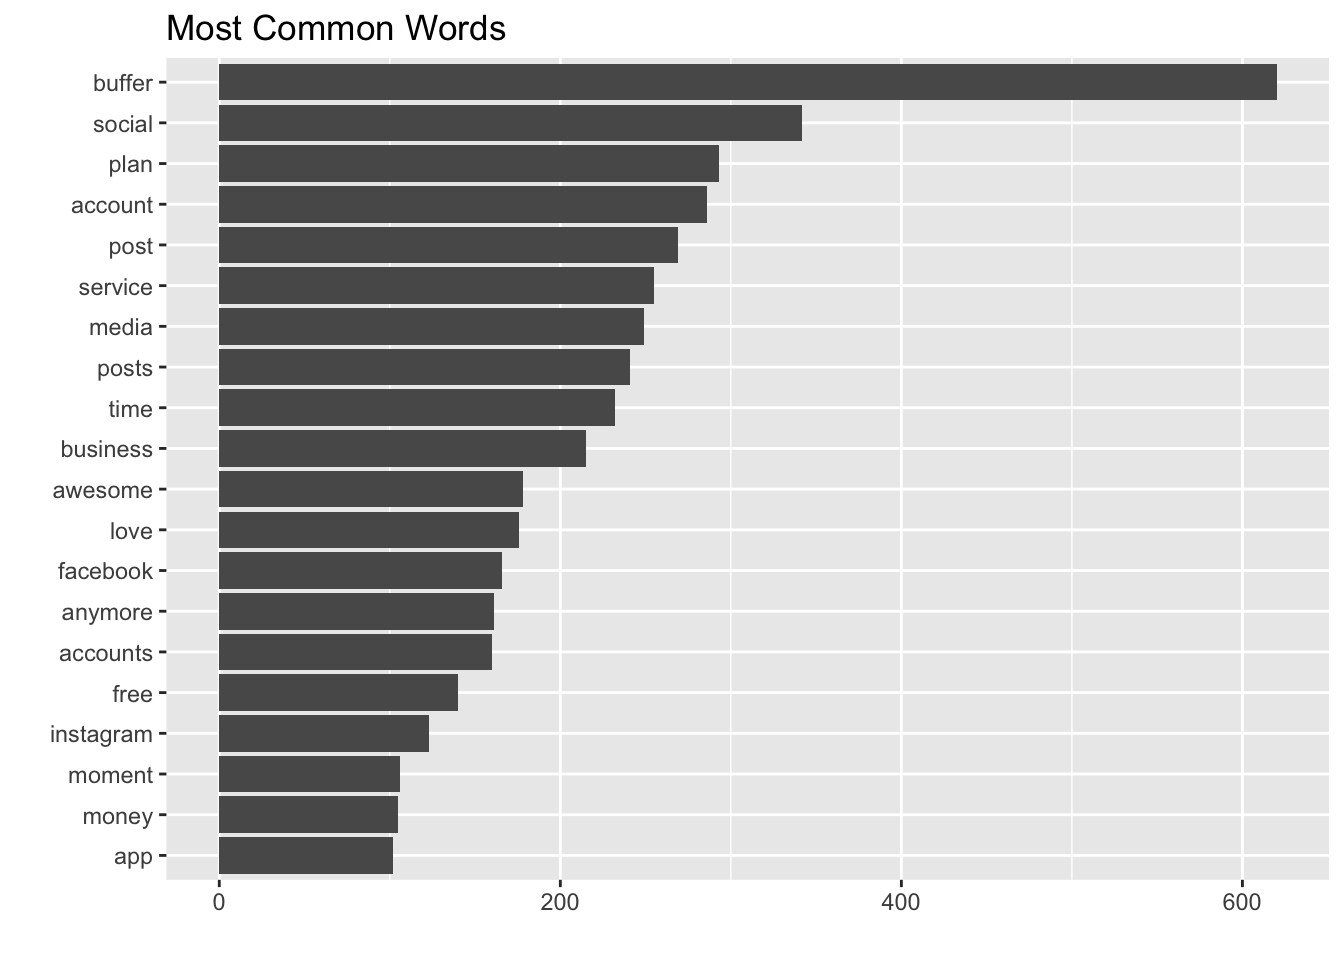
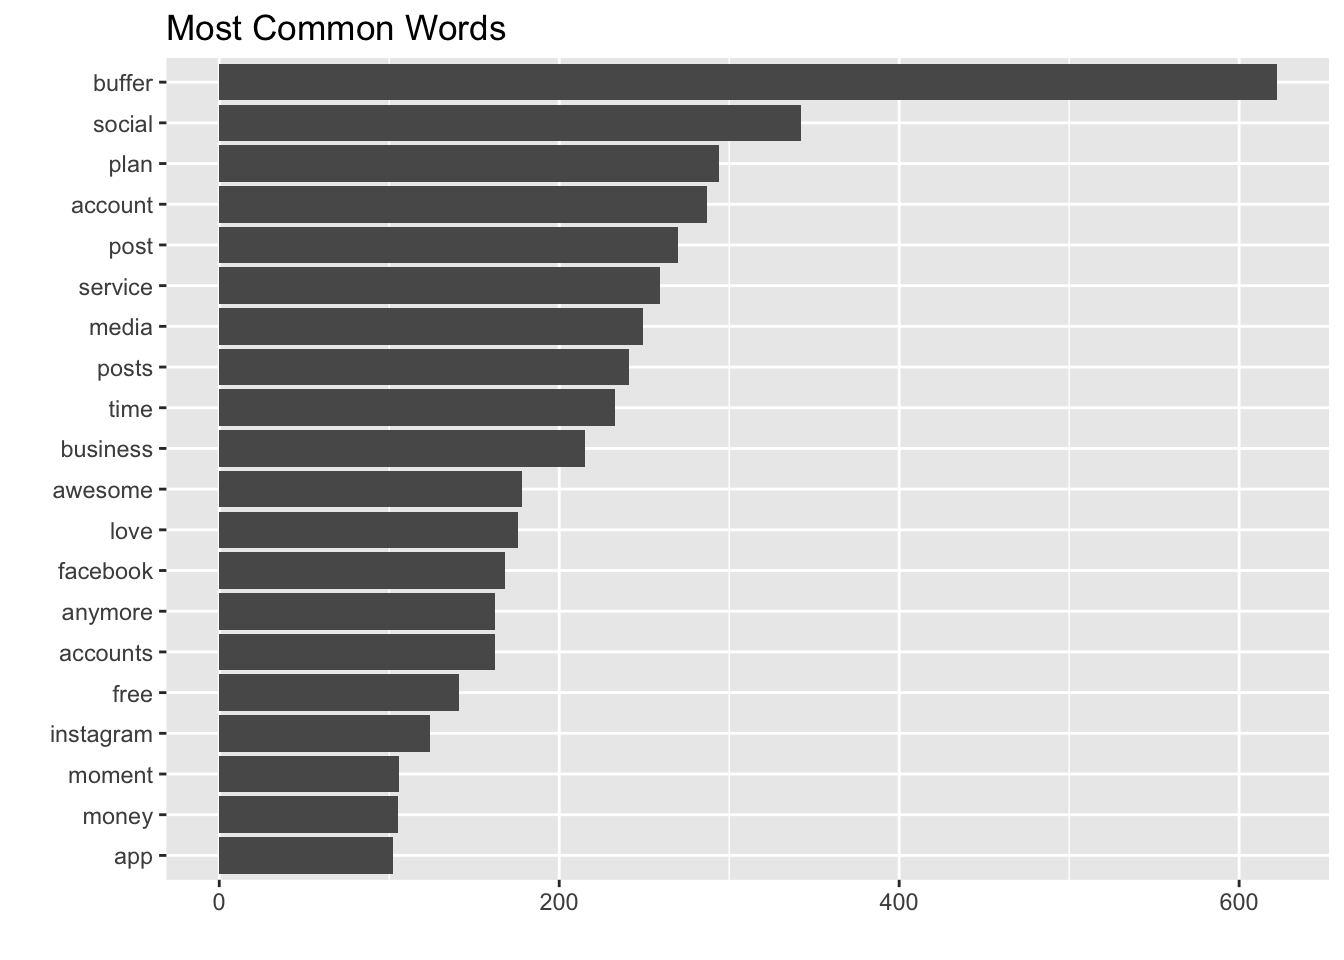
Added topic modeling section

diff --git a/blog/churn-survey-text-analysis/index.html b/blog/churn-survey-text-analysis/index.html
@@ -290,12 +290,12 @@ head(segment_words)</code></pre>
 <pre><code>## # A tibble: 6 x 4
 ##                       type    word     n total
 ##                     &lt;fctr&gt;   &lt;chr&gt; &lt;int&gt; &lt;int&gt;
-## 1 awesome_downgrade_survey  buffer   440 11297
-## 2 awesome_downgrade_survey  social   259 11297
-## 3 awesome_downgrade_survey    plan   234 11297
-## 4 awesome_downgrade_survey   media   192 11297
-## 5 awesome_downgrade_survey service   192 11297
-## 6 awesome_downgrade_survey    time   184 11297</code></pre>
+## 1 awesome_downgrade_survey  buffer   442 11362
+## 2 awesome_downgrade_survey  social   259 11362
+## 3 awesome_downgrade_survey    plan   235 11362
+## 4 awesome_downgrade_survey service   196 11362
+## 5 awesome_downgrade_survey   media   192 11362
+## 6 awesome_downgrade_survey    time   185 11362</code></pre>
 <p>There is one row in this data frame for each word-segment combination. <code>n</code> is the number of times that word is used for that segment and total is the total number of words in the segment’s comments. ## The <code>bind_tf_idf</code> function The idea of tf-idf is to find the important words for the content of each collection of comments by decreasing the weight for commonly used words and increasing the weight for words that are not used very much in an entire collection of documents, in this case all NPS comments.</p>
 <blockquote>
 <p>Calculating tf-idf attempts to find the words that are important (i.e., common) in a text, but not too common.</p>
@@ -306,40 +306,40 @@ segment_words &lt;- segment_words %&gt;%
   bind_tf_idf(word, type, n)
 
 segment_words</code></pre>
-<pre><code>## # A tibble: 4,717 x 7
+<pre><code>## # A tibble: 4,735 x 7
 ##                        type     word     n total         tf       idf
 ##                      &lt;fctr&gt;    &lt;chr&gt; &lt;int&gt; &lt;int&gt;      &lt;dbl&gt;     &lt;dbl&gt;
-##  1 awesome_downgrade_survey   buffer   440 11297 0.03894839 0.2231436
-##  2 awesome_downgrade_survey   social   259 11297 0.02292644 0.2231436
-##  3 awesome_downgrade_survey     plan   234 11297 0.02071346 0.2231436
-##  4 awesome_downgrade_survey    media   192 11297 0.01699566 0.2231436
-##  5 awesome_downgrade_survey  service   192 11297 0.01699566 0.2231436
-##  6 awesome_downgrade_survey     time   184 11297 0.01628751 0.2231436
-##  7 awesome_downgrade_survey    posts   180 11297 0.01593343 0.2231436
-##  8 awesome_downgrade_survey     post   177 11297 0.01566788 0.2231436
-##  9              exit_survey  account   163  3747 0.04350147 0.2231436
-## 10 awesome_downgrade_survey business   146 11297 0.01292379 0.2231436
-## # ... with 4,707 more rows, and 1 more variables: tf_idf &lt;dbl&gt;</code></pre>
+##  1 awesome_downgrade_survey   buffer   442 11362 0.03890160 0.2231436
+##  2 awesome_downgrade_survey   social   259 11362 0.02279528 0.2231436
+##  3 awesome_downgrade_survey     plan   235 11362 0.02068298 0.2231436
+##  4 awesome_downgrade_survey  service   196 11362 0.01725048 0.2231436
+##  5 awesome_downgrade_survey    media   192 11362 0.01689843 0.2231436
+##  6 awesome_downgrade_survey     time   185 11362 0.01628234 0.2231436
+##  7 awesome_downgrade_survey    posts   180 11362 0.01584228 0.2231436
+##  8 awesome_downgrade_survey     post   178 11362 0.01566626 0.2231436
+##  9              exit_survey  account   163  3762 0.04332802 0.2231436
+## 10 awesome_downgrade_survey business   146 11362 0.01284985 0.2231436
+## # ... with 4,725 more rows, and 1 more variables: tf_idf &lt;dbl&gt;</code></pre>
 <p>The <code>idf</code> and <code>tf_idf</code> will be 0 for extremely common words like “the” and “a”. We’ve already removed these stop words from our dataset.</p>
 <p>Let’s look at words with high <code>tf_idf</code> values.</p>
 <pre class="r"><code># Look at high tf_idf value words
 segment_words %&gt;%
   select(-total) %&gt;%
   arrange(desc(tf_idf))</code></pre>
-<pre><code>## # A tibble: 4,717 x 6
+<pre><code>## # A tibble: 4,735 x 6
 ##                                 type       word     n          tf
 ##                               &lt;fctr&gt;      &lt;chr&gt; &lt;int&gt;       &lt;dbl&gt;
-##  1 business_downgrade_awesome_survey       plan    26 0.048417132
-##  2                       exit_survey    account   163 0.043501468
-##  3                       exit_survey       page    37 0.009874566
-##  4                       exit_survey  instagram    66 0.017614091
-##  5          awesome_downgrade_survey     buffer   440 0.038948393
-##  6 business_downgrade_awesome_survey   business    20 0.037243948
+##  1 business_downgrade_awesome_survey       plan    26 0.048327138
+##  2                       exit_survey    account   163 0.043328017
+##  3                       exit_survey       page    38 0.010101010
+##  4                       exit_survey  instagram    66 0.017543860
+##  5          awesome_downgrade_survey     buffer   442 0.038901602
+##  6 business_downgrade_awesome_survey   business    20 0.037174721
 ##  7             business_churn_survey     buffer    48 0.034557235
-##  8                       exit_survey     buffer   120 0.032025620
-##  9 business_downgrade_awesome_survey comparison     2 0.003724395
-## 10 business_downgrade_awesome_survey       jump     2 0.003724395
-## # ... with 4,707 more rows, and 2 more variables: idf &lt;dbl&gt;, tf_idf &lt;dbl&gt;</code></pre>
+##  8                       exit_survey     buffer   120 0.031897927
+##  9 business_downgrade_awesome_survey comparison     2 0.003717472
+## 10 business_downgrade_awesome_survey       jump     2 0.003717472
+## # ... with 4,725 more rows, and 2 more variables: idf &lt;dbl&gt;, tf_idf &lt;dbl&gt;</code></pre>
 <p>Now let’s visualize these high <code>tf_idf</code> words for each segment of responders.</p>
 <p><img src="/blog/churn-survey-text-analysis_files/figure-html/unnamed-chunk-12-1.png" width="672" /></p>
 <p>The words that appear in these graphs appear more frequently in the specific survey type than they do in the other surveys. I think we can ignore “buffer”. The word “plan” seems to appear often in each survey <em>except</em> the exit survey as well.</p>
@@ -363,20 +363,20 @@ head(bigrams$bigram)</code></pre>
 <pre class="r"><code># Count the most common bigrams
 bigrams %&gt;%
   count(bigram, sort = TRUE)</code></pre>
-<pre><code>## # A tibble: 21,784 x 2
+<pre><code>## # A tibble: 21,867 x 2
 ##          bigram     n
 ##           &lt;chr&gt; &lt;int&gt;
 ##  1 social media   243
 ##  2    not using   241
 ##  3     using it   212
-##  4      i don&#39;t   209
+##  4      i don&#39;t   211
 ##  5         i am   195
-##  6    no longer   172
+##  6    no longer   174
 ##  7       use it   163
-##  8   don&#39;t need   154
-##  9       i have   153
+##  8   don&#39;t need   155
+##  9       i have   154
 ## 10      need to   149
-## # ... with 21,774 more rows</code></pre>
+## # ... with 21,857 more rows</code></pre>
 <p>As we might expect, a lot of the most common bigrams are groups of common words. This is a useful time to use tidyr’s <code>separate()</code>, which splits a column into multiple based on a delimiter. This lets us separate it into two columns, “word1” and “word2”, at which point we can remove cases where either is a stop-word.</p>
 <pre class="r"><code># Separate words in bigrams
 separated &lt;- bigrams %&gt;%
@@ -400,20 +400,20 @@ bigram_counts &lt;- filtered %&gt;%
   count(word1, word2, sort = TRUE)
 
 bigram_counts</code></pre>
-<pre><code>## # A tibble: 13,113 x 3
+<pre><code>## # A tibble: 13,167 x 3
 ##      word1  word2     n
 ##      &lt;chr&gt;  &lt;chr&gt; &lt;int&gt;
 ##  1  social  media   243
 ##  2     not  using   241
-##  3   don&#39;t   need   154
+##  3   don&#39;t   need   155
 ##  4      be   back   135
 ##  5   don&#39;t    use   103
 ##  6 awesome   plan    96
-##  7   thank    you    85
+##  7   thank    you    86
 ##  8   using buffer    75
 ##  9    love buffer    69
-## 10   don&#39;t   have    66
-## # ... with 13,103 more rows</code></pre>
+## 10   don&#39;t   have    67
+## # ... with 13,157 more rows</code></pre>
 <p>In other analyses, we may want to work with the recombined words. tidyr’s <code>unite()</code> function is the inverse of separate(), and lets us recombine the columns into one.</p>
 <pre class="r"><code># Reunite the words
 bigrams_united &lt;- filtered %&gt;%
@@ -426,20 +426,20 @@ head(bigrams_united$bigram)</code></pre>
 <pre class="r"><code># Find most common bigrams
 bigrams_united %&gt;%
   count(bigram, sort = TRUE)</code></pre>
-<pre><code>## # A tibble: 13,113 x 2
+<pre><code>## # A tibble: 13,167 x 2
 ##          bigram     n
 ##           &lt;chr&gt; &lt;int&gt;
 ##  1 social media   243
 ##  2    not using   241
-##  3   don&#39;t need   154
+##  3   don&#39;t need   155
 ##  4      be back   135
 ##  5    don&#39;t use   103
 ##  6 awesome plan    96
-##  7    thank you    85
+##  7    thank you    86
 ##  8 using buffer    75
 ##  9  love buffer    69
-## 10   don&#39;t have    66
-## # ... with 13,103 more rows</code></pre>
+## 10   don&#39;t have    67
+## # ... with 13,157 more rows</code></pre>
 <p>A bigram can also be treated as a term in a document in the same way that we treated individual words. For example, we can look at the tf-idf of these trigrams across the surveys. These tf-idf values can be visualized within each segment, just as we did for words earlier.</p>
 <p><img src="/blog/churn-survey-text-analysis_files/figure-html/unnamed-chunk-19-1.png" width="672" /></p>
 <p>I’m seeing a lot of people just not using or not needing Buffer.</p>
@@ -458,20 +458,20 @@ bigrams_united %&gt;%
 
 # Original counts
 bigram_counts</code></pre>
-<pre><code>## # A tibble: 13,113 x 3
+<pre><code>## # A tibble: 13,167 x 3
 ##      word1  word2     n
 ##      &lt;chr&gt;  &lt;chr&gt; &lt;int&gt;
 ##  1  social  media   243
 ##  2     not  using   241
-##  3   don&#39;t   need   154
+##  3   don&#39;t   need   155
 ##  4      be   back   135
 ##  5   don&#39;t    use   103
 ##  6 awesome   plan    96
-##  7   thank    you    85
+##  7   thank    you    86
 ##  8   using buffer    75
 ##  9    love buffer    69
-## 10   don&#39;t   have    66
-## # ... with 13,103 more rows</code></pre>
+## 10   don&#39;t   have    67
+## # ... with 13,157 more rows</code></pre>
 <p>Let’s create a bigram graph object.</p>
 <pre class="r"><code># filter for only relatively common combinations
 bigram_graph &lt;- bigram_counts %&gt;%
@@ -487,8 +487,8 @@ bigram_graph</code></pre>
 ##  [7] thank   -&gt;you       using   -&gt;buffer    love    -&gt;buffer   
 ## [10] don&#39;t   -&gt;have      too     -&gt;expensive buffer  -&gt;is       
 ## [13] use     -&gt;buffer    come    -&gt;back      you     -&gt;guys     
-## [16] this    -&gt;time      your    -&gt;service   is      -&gt;not      
-## [19] more    -&gt;than      is      -&gt;great     business-&gt;plan     
+## [16] more    -&gt;than      this    -&gt;time      your    -&gt;service  
+## [19] is      -&gt;not       is      -&gt;great     business-&gt;plan     
 ## [22] be      -&gt;able      can&#39;t   -&gt;afford    it&#39;s    -&gt;not      
 ## + ... omitted several edges</code></pre>
 <p>We can convert an igraph object into a ggraph with the ggraph function, after which we add layers to it, much like layers are added in ggplot2. For example, for a basic graph we need to add three layers: nodes, edges, and text.</p>
@@ -502,9 +502,126 @@ bigram_graph</code></pre>
 <p><img src="/blog/churn-survey-text-analysis_files/figure-html/unnamed-chunk-24-1.png" width="672" /></p>
 <p>There are similar themes in this graph. Users simply aren’t using, or don’t need, Buffer. Cost is mentioned, as well as refunds. Sprout social is mentioned, as well as set up. Interestingly “come back” and “thank you” are also present.</p>
 </div>
+<div id="topic-modeling" class="section level2">
+<h2>Topic modeling</h2>
+<p>In analyzing these survey responses, we feel the urge to group words and responses into natural groups so that we can understand them separately. Topic modeling is a method for unsupervised classification of such documents, similar to clustering on numeric data, which finds natural groups of items even when we’re not sure what we’re looking for.</p>
+<p>Latent Dirichlet allocation (LDA) is a particularly popular method for fitting a topic model. It treats each document as a mixture of topics, and each topic as a mixture of words. This allows documents to “overlap” each other in terms of content, rather than being separated into discrete groups, in a way that mirrors typical use of natural language.</p>
+<p>LDA is a mathematical method for finding the mixture of words that is associated with each topic, while also determining the mixture of topics that describes each document.</p>
+<p>We can use the <code>LDA()</code> function from the <code>topicmodels</code> package, setting k = 2, to create a two-topic LDA model.</p>
+<pre class="r"><code>library(topicmodels); library(tm)</code></pre>
+<pre><code>## Loading required package: NLP</code></pre>
+<pre><code>## 
+## Attaching package: &#39;NLP&#39;</code></pre>
+<pre><code>## The following object is masked from &#39;package:httr&#39;:
+## 
+##     content</code></pre>
+<pre><code>## The following object is masked from &#39;package:ggplot2&#39;:
+## 
+##     annotate</code></pre>
+<pre class="r"><code># Create a text corpus
+corpus &lt;- Corpus(VectorSource(text_df$word))
+
+# Created a document term matrix
+dtm &lt;- DocumentTermMatrix(corpus)
+
+# Find the sum of words in each Document
+rowTotals &lt;- apply(dtm , 1, sum) 
+
+# Remove all docs without words
+dtm_new   &lt;- dtm[rowTotals &gt; 0, ]        
+
+inspect(dtm_new)</code></pre>
+<pre><code>## &lt;&lt;DocumentTermMatrix (documents: 16551, terms: 3166)&gt;&gt;
+## Non-/sparse entries: 16574/52383892
+## Sparsity           : 100%
+## Maximal term length: 20
+## Weighting          : term frequency (tf)
+## Sample             :
+##       Terms
+## Docs   account buffer business media plan post posts service social time
+##   1019       0      0        0     0    0    0     0       0      0    0
+##   1123       0      0        0     0    0    0     0       0      0    0
+##   280        0      0        0     0    0    0     0       0      0    0
+##   310        0      0        0     0    0    0     0       0      0    0
+##   509        0      0        0     0    0    0     0       0      0    0
+##   609        0      0        0     0    0    0     0       0      0    0
+##   633        0      0        0     0    0    0     0       0      0    0
+##   834        0      0        0     0    0    0     0       0      0    0
+##   947        0      0        0     0    0    0     0       0      0    0
+##   948        0      0        0     0    0    0     0       0      0    0</code></pre>
+<pre class="r"><code># Set a seed so that the output of the model is predictable
+lda &lt;- LDA(dtm_new, k = 2, control = list(seed = 1234))
+lda</code></pre>
+<pre><code>## A LDA_VEM topic model with 2 topics.</code></pre>
+<p>Now that we’ve fit the LDA model, the rest of the analysis will involve exploring and interpreting the model using tidying functions from the <code>tidytext</code> package.</p>
+<div id="word-topic-probabilities" class="section level3">
+<h3>Word-topic probabilities</h3>
+<p>From the Tidy Text Mining with R book:</p>
+<blockquote>
+<p>…the tidy() method, originally from the broom package (Robinson 2017), for tidying model objects. The tidytext package provides this method for extracting the per-topic-per-word probabilities, called ββ (“beta”), from the model.</p>
+</blockquote>
+<pre class="r"><code>topics &lt;- tidy(lda, matrix = &quot;beta&quot;)
+topics</code></pre>
+<pre><code>## # A tibble: 6,332 x 3
+##    topic        term         beta
+##    &lt;int&gt;       &lt;chr&gt;        &lt;dbl&gt;
+##  1     1 polytechnic 5.658560e-05
+##  2     2 polytechnic 6.408612e-05
+##  3     1       basil 3.713403e-05
+##  4     2       basil 8.354180e-05
+##  5     1         bob 8.021462e-05
+##  6     2         bob 4.045211e-05
+##  7     1       teach 8.974310e-05
+##  8     2       teach 3.092162e-05
+##  9     1  loooonnnng 7.176434e-05
+## 10     2  loooonnnng 4.890418e-05
+## # ... with 6,322 more rows</code></pre>
+<p>This has turned the model into a one-topic-per-term-per-row format. For each combination, the model computes the probability of that term being generated from that topic.</p>
+<p>We could use <code>dplyr</code>’s <code>top_n()</code> to find the 10 terms that are most common within each topic.</p>
+<pre class="r"><code># Find top terms
+lda_top_terms &lt;- topics %&gt;%
+  group_by(topic) %&gt;%
+  top_n(15, beta) %&gt;%
+  ungroup() %&gt;%
+  arrange(topic, -beta)
+
+# Plot the results
+lda_top_terms %&gt;%
+  mutate(term = reorder(term, beta)) %&gt;%
+  ggplot(aes(term, beta, fill = factor(topic))) +
+  geom_col(show.legend = FALSE) +
+  facet_wrap(~ topic, scales = &quot;free&quot;) +
+  coord_flip()</code></pre>
+<p><img src="/blog/churn-survey-text-analysis_files/figure-html/unnamed-chunk-28-1.png" width="672" /></p>
+<p>These graphs show the words that are most common in each topic. Notice that there is a lot of overlap – this is a feature of LDA.</p>
+<p>As an alternative, we could consider the terms that had the greatest difference in β between topic 1 and topic 2. This can be estimated based on the log ratio of the two: log2(β2/β1) (a log ratio is useful because it makes the difference symmetrical: β2 being twice as large leads to a log ratio of 1, while β1 being twice as large results in -1).</p>
+<p>To constrain it to a set of especially relevant words, we can filter for relatively common words, such as those that have a ββ greater than 1/1000 in at least one topic.</p>
+<pre class="r"><code># Find the differences in betas
+beta_spread &lt;- topics %&gt;%
+  mutate(topic = paste0(&quot;topic&quot;, topic)) %&gt;%
+  spread(topic, beta) %&gt;%
+  filter(topic1 &gt; .001 | topic2 &gt; .001) %&gt;%
+  mutate(log_ratio = log2(topic2 / topic1))
+
+# Plot it out
+beta_spread %&gt;%
+  group_by(log_ratio &lt; 0) %&gt;%
+  top_n(15, abs(log_ratio)) %&gt;%
+  ungroup() %&gt;%
+  mutate(term = reorder(term, log_ratio)) %&gt;%
+  ggplot(aes(term, log_ratio, fill = log_ratio &lt; 0)) +
+  geom_col() +
+  coord_flip() +
+  ylab(&quot;Log Odds Ratio&quot;) +
+  xlab(&quot;&quot;) +
+  scale_fill_discrete(name = &quot;&quot;, labels = c(&quot;Topic 1&quot;, &quot;Topic 2&quot;))</code></pre>
+<p><img src="/blog/churn-survey-text-analysis_files/figure-html/unnamed-chunk-29-1.png" width="672" /></p>
+<p>To be honest, I can’t quite figure out how these words relate to eachother and to a single topic. This method might not be the most useful to us in this particular case.</p>
+</div>
+</div>
 <div id="conclusions" class="section level2">
 <h2>Conclusions</h2>
-<p>Based on these Markov chains, it feels important to figure out why users stop using and needing Buffer. In many cases it could be due to external factors like business needs, market forces, layoffs, but in other cases it could be due to Buffer itself. Perhaps Buffer could have a better engagement loop. Or perhaps Buffer could help users that become inactive by suggesting content to share.</p>
+<p>Based on the results of our anlaysis, it feels important to figure out why users stop using and needing Buffer. In many cases it could be due to external factors like business needs, market forces, layoffs, but in other cases it could be due to Buffer itself. Perhaps Buffer could have a better engagement loop. Or perhaps Buffer could help users that become inactive by suggesting content to share.</p>
 <p>Another theme that appears repeatedly is cost. We know that the current pricing structure isn’t completely ideal, so it feels good to be working towards a more individualized structure over the next few product cycles.</p>
 <p>There is a general theme of gratitude in these responses - “i love buffer” was a common phrase that appeared often in each survey. It’s comforting to know that people like the product and team – I hope that we’ll be able to use some of these learnings to give them a better experience. :)</p>
 </div>
